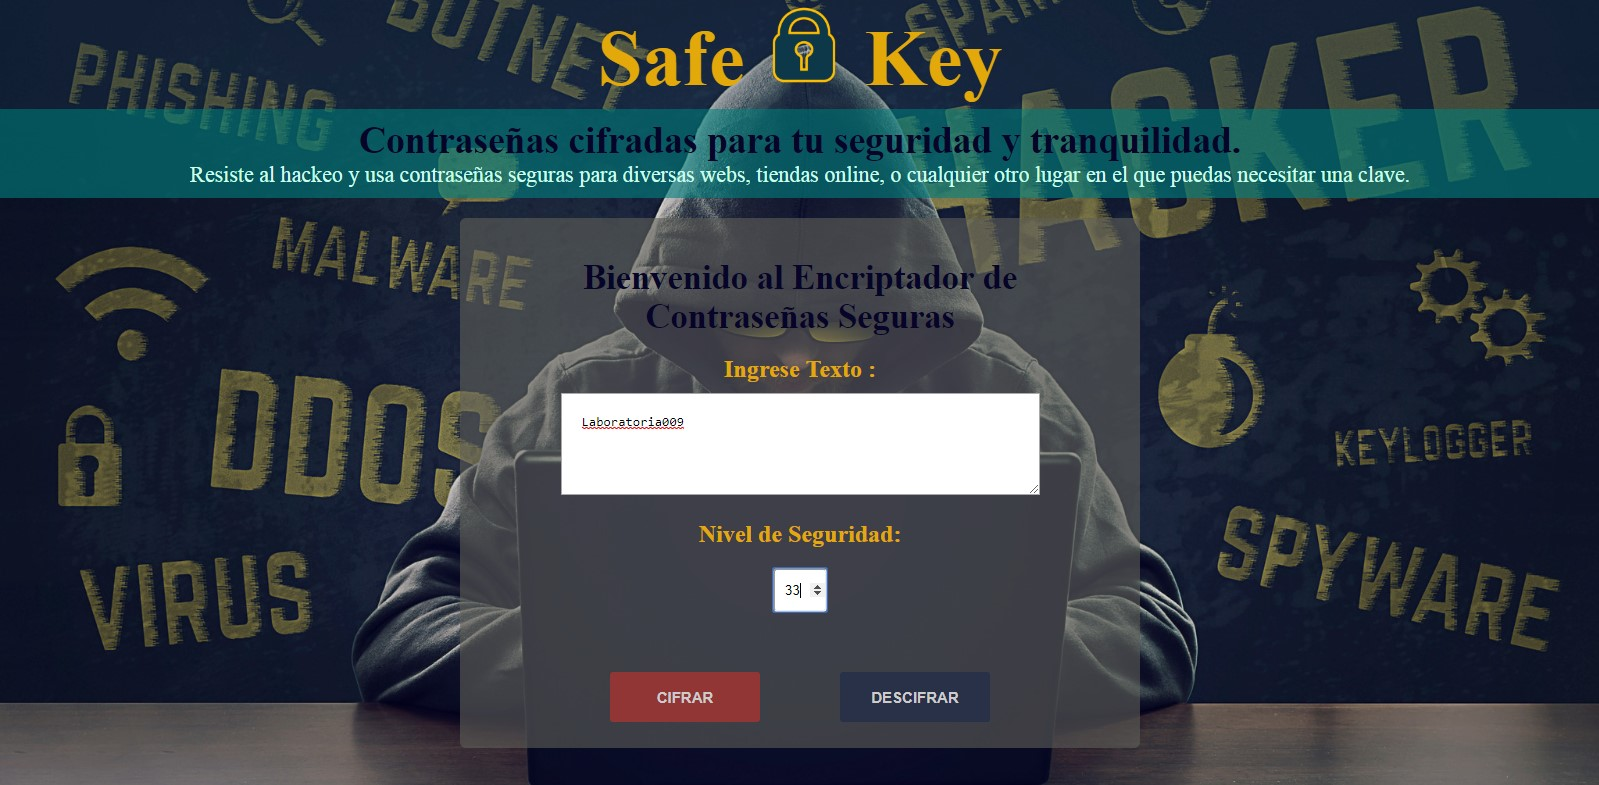
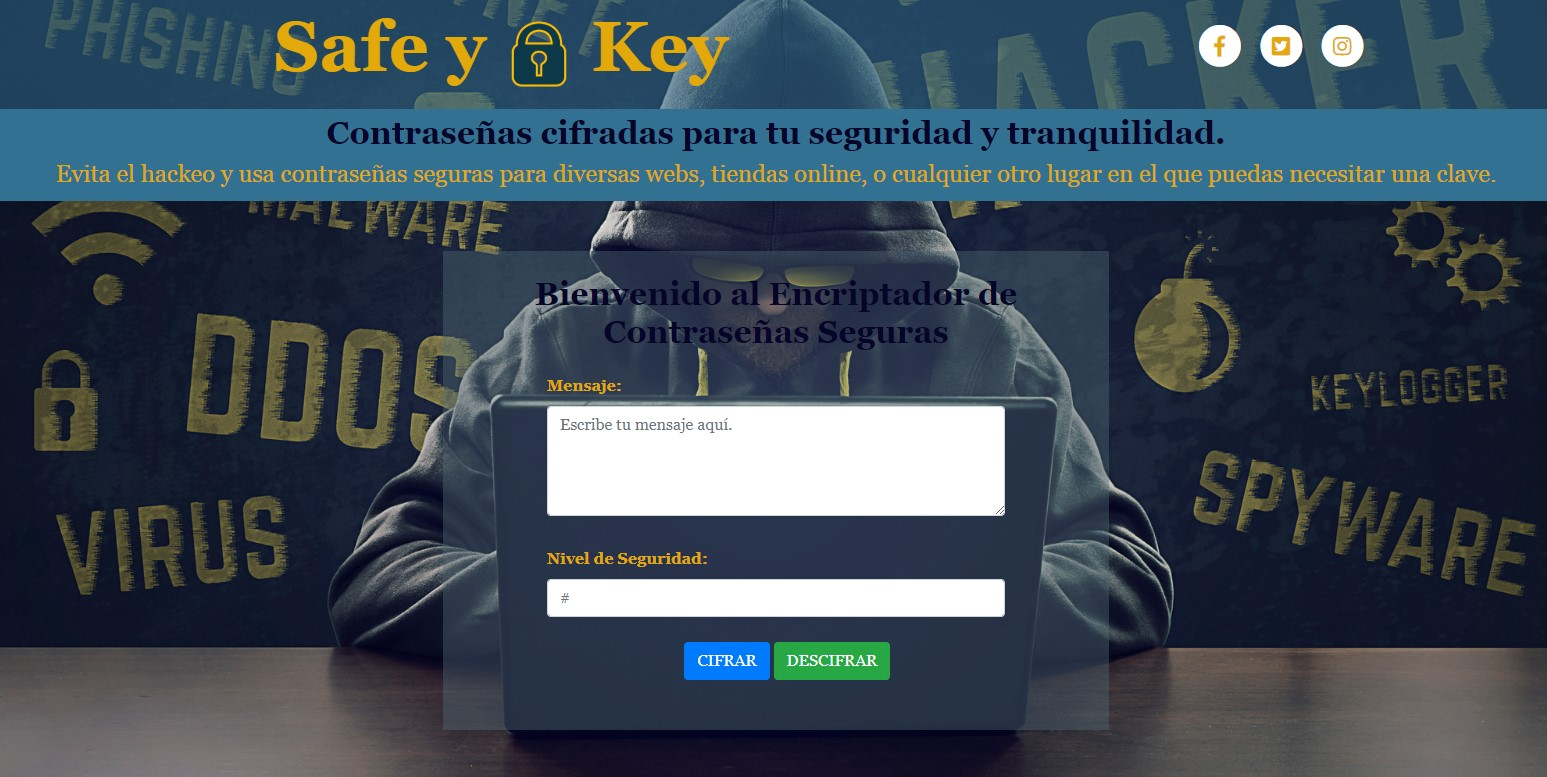
listo todo terminado

diff --git a/src/index.html b/src/index.html
@@ -4,61 +4,96 @@
     <meta charset="utf-8">
     <meta name="viewport" content="width=device-width, initial-scale=1,maximum-scale=1">
     <title>Caesar Cipher</title>
+    <link rel="stylesheet" href="https://stackpath.bootstrapcdn.com/bootstrap/4.3.1/css/bootstrap.min.css" integrity="sha384-ggOyR0iXCbMQv3Xipma34MD+dH/1fQ784/j6cY/iJTQUOhcWr7x9JvoRxT2MZw1T" crossorigin="anonymous">
+    <link rel="stylesheet" href="https://use.fontawesome.com/releases/v5.7.2/css/all.css" integrity="sha384-fnmOCqbTlWIlj8LyTjo7mOUStjsKC4pOpQbqyi7RrhN7udi9RwhKkMHpvLbHG9Sr" crossorigin="anonymous">
+
     <link rel="stylesheet" href="style.css" />
   </head>
-
   <body>
-    <header class="encabezado">
-      <h1>Safe <img src="img/candado.png" alt="img" width="80px" height="80px"> Key</h1>
+    <header>
+      <div class="container-fluid page-head">
+        <div class="row col-sm-12">
+          <div class="col-sm-8">
+            <h1>Safe y <img src="img/candado.png" alt="img" width="70px" height="70px"> Key</h1>                        
+          </div>
+          <div class="col-sm-4"> 
+            <ul class="social-header list-inline text-xs-right">
+              <li class="list-inline-item">
+                <a href="#">
+                  <span class="fa-stack fa-lg">
+                    <i class="fa fa-circle fa-stack-2x"></i>                        
+                    <i class="fab fa-facebook-f fa-stack-1x fa-inverse"></i>
+                  </span>
+                </a>
+              </li>
+              <li class="list-inline-item">
+                <a href="#">
+                  <span class="fa-stack fa-lg">
+                    <i class="fa fa-circle fa-stack-2x"></i> 
+                    <i class="fab fa-twitter-square fa-stack-1x fa-inverse"></i>
+                  </span>
+                </a>
+              </li>
+              <li class="list-inline-item">
+                <a href="#">
+                  <span class="fa-stack fa-lg">
+                    <i class="fa fa-circle fa-stack-2x"></i> 
+                    <i class="fab fa-instagram fa-stack-1x fa-inverse"></i>
+                  </span>
+                </a>
+              </li>            
+            </ul>                
+          </div>       
+        </div>
+      </div>      
     </header>
-<!--Decripcion del producto-->
-    <nav class="description">
+
+    <div class="container-fluid col-sm-12 banner" >
       <h2>Contraseñas cifradas para tu seguridad y tranquilidad.</h2>
-      <p>Resiste al hackeo y usa contraseñas seguras para diversas webs, tiendas online, o cualquier otro lugar en el que puedas necesitar una clave. </p>
-    </nav>
-<!-- PROGRAMA STRING Y OFFSET -->
-    <section class="classic-container" id= "programa">
-      <h1>Bienvenido al Encriptador de Contraseñas Seguras </h1>
-      <div  id="formulario">        
-        <form>
-          <div class="form-classic">
-            <label for="message">Ingrese Texto :</label>
-            <textarea id="message" class ="textarea" cols="60" rows="4" placeholder="Escribe tu mensaje aquí..."></textarea>
-               <p class="error" id= "empty-string"></p>
+      <h4>Evita el hackeo y usa contraseñas seguras para diversas webs, tiendas online, o cualquier otro lugar en el que puedas necesitar una clave.</h4>
+    </div>
+
+    <section class="container  col-lg-5 align-self-center" id="programa"> 
+      <h2>Bienvenido al Encriptador de Contraseñas Seguras</h2>      
+      <div class="classic-container">         
+          <form role="form">             
+            <div class="form-group">
+              <label for="message">Mensaje:</label>
+              <textarea id="message" class ="form-control" cols="60" rows="4" placeholder="Escribe tu mensaje aquí." required></textarea>
+              <p class="error" id= "empty-string"></p>
             </div>
-            <div class="form-classic">
+            <div class="form-group">
               <label for="offset">Nivel de Seguridad:</label>
-              <input type="number" id="offset"   min="1" placeholder="#"/>
+              <input type="number" id="offset"  class="form-control" min="1" placeholder="#" required />
               <p class="error" id= "empty-offset"></p>
             </div>
-            <div class="form-classic botones" id="botones">
-                <button id="btn-encode" type="button" name="Cifrar" class="btn-cifrar">CIFRAR</button>
-                <button id="btn-decode"  type="button" name="descifrar" class="btn-descifrar">DESCIFRAR</button>
-            </div> 
-        </form>              
+            <div class="form-group btn-center" id="botones">
+              <button id="btn-encode"  type="button" name="Cifrar"  class="btn btn-primary">CIFRAR</button>
+              <button id="btn-decode"  type="button" name="descifrar" class="btn btn-success">DESCIFRAR</button>
+            </div>
+          </form>        
+        </div>            
+    </section>
+    <section class="container col-lg-5 align-self-center" id="resultado">
+      <div class="classic-container">
+        <h2 id="mensajito"></h2>
+        <form role="form">
+          <div class="form-group">
+            <label for="final-message">Resultado:</label>
+            <textarea id="final-message" class ="form-control" cols="60" rows="4"></textarea>
+          </div>
+          <button id="new-message"  type="button" name="descifrar" class="btn btn-secondary btn-center">NUEVO MENSAJE</button>
+        </form>        
       </div>
     </section>
 
-<!--Mostrar-->
-    <section class="classic-container" id="resultado">
-      <div class="form-classic">
-        <h1 id="mensajito"></h1>
-        <textarea id="final-message" class ="textarea" cols="50" rows="4" placeholder="Escribe tu mensaje aquí..."></textarea>
-      </div>
-      <div class="form-classic botones">
-        <button class="nuevo" id="new-message" type="button" name="nuevo" >NUEVO MENSAJE</button>
-      </div>     
-      
-    </section>
+    
 
 
+    <script src="https://code.jquery.com/jquery-3.3.1.slim.min.js" integrity="sha384-q8i/X+965DzO0rT7abK41JStQIAqVgRVzpbzo5smXKp4YfRvH+8abtTE1Pi6jizo" crossorigin="anonymous"></script>
+    <script src="https://cdnjs.cloudflare.com/ajax/libs/popper.js/1.14.7/umd/popper.min.js" integrity="sha384-UO2eT0CpHqdSJQ6hJty5KVphtPhzWj9WO1clHTMGa3JDZwrnQq4sF86dIHNDz0W1" crossorigin="anonymous"></script>
+    <script src="https://stackpath.bootstrapcdn.com/bootstrap/4.3.1/js/bootstrap.min.js" integrity="sha384-JjSmVgyd0p3pXB1rRibZUAYoIIy6OrQ6VrjIEaFf/nJGzIxFDsf4x0xIM+B07jRM" crossorigin="anonymous"></script>
 
-
-    <footer class="pie-pagina"> Copyright © Todos los Derechos Reservados - Safe Key </footer>
-  
-
-
-     
     <script src="cipher.js"></script>
     <script src="index.js"></script>
   </body>

diff --git a/src/style.css b/src/style.css
@@ -1,113 +1,100 @@
 *{
-    margin: 0;
+    margin: 0
     padding: 0;    
 }
-
 body{
-	background: url("img/fondo2.jpg") no-repeat center center fixed;
+	background: url("img/fondo.jpg") no-repeat center center fixed;
 	-webkit-background-size: cover;
 	-moz-background-size: cover;
 	-o-background-size: cover;
 	background-size: cover;
+	font-family:Georgia, Serif;
 }
-.encabezado ,.description ,.classic-container ,.pie-pagina { 
-	padding: 10px;
-	text-align: center;
-	margin: auto;
-}
-.description ,.classic-container ,.pie-pagina {	
-	box-sizing:border-box;
-}
-.encabezado{
-	background-color: rgba(51, 113, 147, 0.14);
-	color:#E3A90B;	
-	font-size: 40px;
-	font-family:Georgia, Serif;	
-	width: 100%;
-	
-}
-.description,.pie-pagina{
-	background-color: rgba(0,128,128, 0.3);
-	color:#070429;
-	font-size: 23px;
-	width: 100%;
-}
-.description p{
-	color:#deecff;
-}
-/***FOOTER*****/
-.pie-pagina{
-	font-size:13px;	
-	color:#deecff;
-}
-/***FORMULARIO**/
-.classic-container{	
-	background-color: rgba(95, 95, 89, 0.6);
-	color:#070429;
-	font-size: 20px;
-	width: 40%;
-	height: auto;
-	border-radius: 6px;	
-	margin: 30px auto;
-}
-.form-classic{
-	margin:30px auto;
-	color:#E3A90B; 
-	font-weight: bold;	
-}
-.form-classic p{
-	color:#deecff;
-	font-size: 15px;
-}
-.form-classic label{
-	display: block;    
-}
-.form-classic textarea,input{
-	border-radius: 4px;
-	margin-top: 20px ;
-	
-	-webkit-box-sizing: border-box;
-    -moz-box-sizing: border-box;
-    box-sizing: border-box;	
-    width: 80%;
-}
-.form-classic textarea{
-	padding: 20px;
-}
-.form-classic input{	
-	width: 50px;
-	height:40px;
-	font-weight: bold;
-	text-align: center;	
-}
-/***BOTONES**/
-.botones button{
-	width: 20%;
-	height: 25%;
-	border: none; 
-	border-radius: 3px;
-	padding: 10px 20px;
-	font-weight: bold;
-	color: #ccc;
-	text-align: center;
-	display: inline-block;
-	
-}
-.btn-cifrar{
-	background-color: #913535;
-	margin-right: 100px;
-}	
-.btn-descifrar{	
-	background-color:#283148;
-}
-/****RESULTADOS*******/
-.nuevo {
-	background-color:black;
-	margin-top: 20px;
-}
-/*  ocultar ventana*/
 #resultado{
 	display: none;
 }
+
+/**header*/
+.container-fluid{
+	background-color: rgba(51, 113, 147, 0.5);
+	text-align: center;	
+	padding: 5px;	
+}
+.page-head h1{
+	font-size:70px;	
+	color:#E3A90B;	
+}
+.page-head h1 , .banner h2{
+	font-weight: bold;
+}
+
+/*Redes sosciales*/
+.social-header {
+	padding: 20px;
+	display: flex;
+	flex-wrap:wrap;
+	justify-content:center	
+}
+.social-header a {
+	color: #fff;
+}	
+.social-header a .fa-inverse {
+	color:#E3A90B;	
+}
+/* descripcion***/
+.banner{
+	background-color: rgba(51, 113, 147, 1);
+	color:#070429;
+}
+.banner h4{
+color:#E3A90B;
+}
+
+/******FOMULARIO***/
+.container{
+	margin-top: 50px;
+	margin-bottom: 20px;
+	background-color: rgba(83, 108, 118, 0.4);
+	padding:1.5em;
+	font-weight: bold;
+}
+.container h2{
+	font-weight: bold;
+	text-align: center;
+	color:#070429;
+}
+.classic-container{
+	margin:0 80px;
+}
+.form-group label{
+	color: #E3A90B;	
+	margin-top:15px;
+}
+.form-group input{
+	text-align: center;
+}
+.form-group p{
+	text-align: center;
+	color:#deecff;
+}
+
+#botones {
+	display: block;		
+	margin-left: 30%;
+}
+button{
+	margin-bottom: 10px; 
+}
+.btn-center{
+	margin-top:25px;
+	display: block;
+	float: none;
+	margin-left: auto;
+	margin-right: auto;
+}
+
+
+
+
 
 

diff --git a/README.md b/README.md
@@ -4,13 +4,13 @@
 
 ## Introducción:
 
-Todos utilizamos a diario las contraseñas para acceder a nuestro correo electrónico, a las redes sociales, foros o, incluso, para iniciar nuestro equipo. Las personas que usan claves débiles corren el riesgo de que estas sean descifradas por algún intruso que quiera robarnos la información. Sin duda, la primera línea de protección en internet es crear una contraseña segura para preservar nuestra información; quizás esto puede parecer un poco exagerado, pero lo cierto es que los "hackers" cuentan cada vez con mecanismos más sofisticados para piratear una clave. Lo que podría haberse considerado como una clave segura en su momento, ahora puede que sea una puerta entreabierta a sus cuentas. 
+Todos utilizamos a diario las contraseñas para acceder a nuestro correo electrónico,redes sociales, foros o para iniciar nuestros equipos.Las personas que usan claves débiles corren el riesgo de que estas sean descifradas por algún intruso y roben nuestra información. Sin duda, la primera línea de protección en internet es crear una contraseña segura para preservar nuestra información; quizás esto puede parecer un poco exagerado, pero lo cierto es que los "hackers" cuentan cada vez con mecanismos más sofisticados para piratear una clave. Lo que podría haberse considerado como una clave segura en su momento, ahora puede que sea una puerta entreabierta a sus cuentas. 
 
 Incluso siendo cuidadosos nos exponemos a ciertos riesgos. Por ejemplo, hace cuatro años, el gigante estadounidense Yahoo! sufrió un robo masivo de información de las cuentas de sus usuarios. Más de 1.000 millones de cuentas fueron hackeadas con el riesgo que eso supone. Un año antes, Dropbox, un servicio de alojamiento de datos en la nube, sufrió otro robo masivo de información. Más de 68 millones de cuentas se vieron afectadas por este robo.
 
 ## ¿Cómo nace la idea de crear **Safe Key**?
 
-Un informe reciente revela que más del 80% de las vulnerabilidades relacionadas con ataques de hackers se debe a contraseñas poco seguras o robadas. Por eso, si desea proteger tu información personal y activos, crear contraseñas seguras es un primer gran paso. Usar una contraseña kilométrica e imposible de recordar y que tengas que apuntarla en algún sitio, lo cual implica que otra persona pueda leerla o que la pierdas para siempre no es nada practico. Con Safe key podrás generar contraseñas seguras sin volverte loco, esta herramienta permite cifrar y descifrar textos deseados utilizando técnicas conocidas como algoritmos, mediante este algoritmo se genera una nueva contraseña aleatoria única  y segura.
+Un informe reciente revela que más del 80% de las vulnerabilidades relacionadas con ataques de hackers se debe a contraseñas poco seguras o robadas. Por eso, si deseas proteger tu información personal y activos, crear contraseñas seguras es un primer gran paso. Usar una contraseña kilométrica e imposible de recordar y que tengas que apuntarla en algún sitio, lo cual implica que otra persona pueda leerla o que la pierdas para siempre no es nada práctico. Con Safe key podrás generar contraseñas seguras sin volverte loco, esta herramienta permite cifrar y descifrar textos deseados utilizando técnicas conocidas como algoritmos, mediante este algoritmo se genera una nueva contraseña aleatoria única  y segura.
 
 ## Definición del Producto
 
@@ -20,19 +20,15 @@ Personas en general que usen correo electrónico, redes sociales, foros, tiendas
 
 ### ¿Cuáles son los objetivos de estos usuarios en relación con tu producto?
 
-El objetivo principal es contar con una herramienta que permita la creación de textos cifrados, así como la decodificación de estos, a través del uso de un desplazamiento específico de caracteres (offset). Ello permitirá a los usuarios tener una contraseña segura y confiable, así mismo evitar el hackeo de sus cuentas para apoderarse de su información personal o incluso tener acceso a servicios financieros.
+El objetivo principal es contar con una herramienta que permita la creación de textos cifrados, así como la decodificación de estos, a través del uso de un desplazamiento específico de caracteres (offset). Ello permitirá a los usuarios tener una contraseña segura y confiable, así mismo evitar el hackeo de sus cuentas para apoderarse de su información personal o incluso tener acceso a sus servicios financieros.
 
 ### ¿Cómo crees que el producto que estás creando está resolviendo sus problemas?
 
 Muchas personas pueden pensar que crear una contraseña segura lo pueden hacer ellos mismos, pero para estar realmente tranquilo con la contraseña que se ha elegido, es imprescindible recurrir a un servicio automatizado de creación de contraseñas. Que mediante el uso de tecnología de seguridad con aleatoriedad integrada genera de manera confiable una contraseña completamente segura que se ajusta a los requisitos de contraseñas exclusivas de diferentes sitios. 
-Además, Una persona nunca genera una clave completamente aleatoria. Un servicio de generación de claves seguras sí, como lo es Safe Key. Tal vez estas contraseñas, algo complejas, sean difíciles de recordar, pero se pueden usar, por ejemplo, una carpeta que esté cifrada para que nadie pueda acceder ella, solo nosotros. 
+Además, Una persona nunca genera una clave completamente aleatoria. Un servicio de generación de claves seguras sí, como lo es Safe Key. Tal vez estas contraseñas, algo complejas, sean difíciles de recordar, pero se pueden usar,por ejemplo,una carpeta que esté cifrada para que nadie pueda acceder ella, solo nosotros. 
 
 ## Decisiones de diseño que se tomaron 
-Al tener definida la necesidad del usuario, se optó por diseñar un entorno sencillo, fácil de manejar, y que permita rapidez en su funcionamiento, así como en el entendimiento de las instrucciones. Para esto se consideró el uso de secciones estilizadas de forma amigable (cajas con bordes redondeados, centradas y de tamaño compacto).
-
-### Paleta de colores
-
-Los colores observados son bastante sobrios y denotan un tono serio, sobrio, elegante y profesional. La combinación está orientada a crear una armonía entre los elementos, priorizando su función principal, siendo el cifrar.
+Al tener definida la necesidad del usuario, se optó por diseñar un entorno sencillo, fácil de manejar,que permita rapidez en su funcionamiento, así como en el entendimiento de las instrucciones.Se utilizo Bootstrap  que es uno de los frameworks más populares utilizado para crear sitios web y aplicaciones responsivas.
 
 ### Prototipo:
 
@@ -42,6 +38,7 @@ Se mostró el primer diseño  a las colaboradoras del equipo y se sugirió optim
 
 ### ¿Cuál fue tu proceso para definir el producto final a nivel de experiencia y de interfaz?
 En primer lugar, pensar en los usuarios para quienes se deseaba construir la aplicación y en las necesidades de estas y que pudieran conectar con la temática del producto (encriptado de mensajes).
+
 Como segundo paso, definir la forma en la que pudieran interactuar con la aplicación, teniendo en cuenta que existen otras plataformas que ofrecen una mejor oferta para satisfacer las necesidades o resolver los problemas de los usuarios objetivo. Se pensó entonces en construir una herramienta rápida en funcionalidad, que vaya directo a su objetivo y ofrezca la sensación de satisfacción inmediata, brindando un poco más de lo que se espera. Como tercer punto se tomaron las decisiones de diseño, colores, emplazamiento y formas, así como la adición de interacción y atractivo visual. Posteriormente se presentaron los avances a discusión en el equipo de trabajo para recabar sugerencias e identificar errores.
 
 ## Descripción de las características y funcionalidades de Safe Key
@@ -58,7 +55,6 @@ También Se pueden apreciar dos botones: CIFRAR y DESCIFRAR. Cada uno realizan u
 
 ![Cifrado](src/img/cifrar.jpg)
 ![Cifrado](src/img/cifrar-resultado.jpg)
-
 
 **Botón DESCIFRADO:**
 - Devuelve el texto original a partir del desplazamiento o nivel de seguridad brindado.
